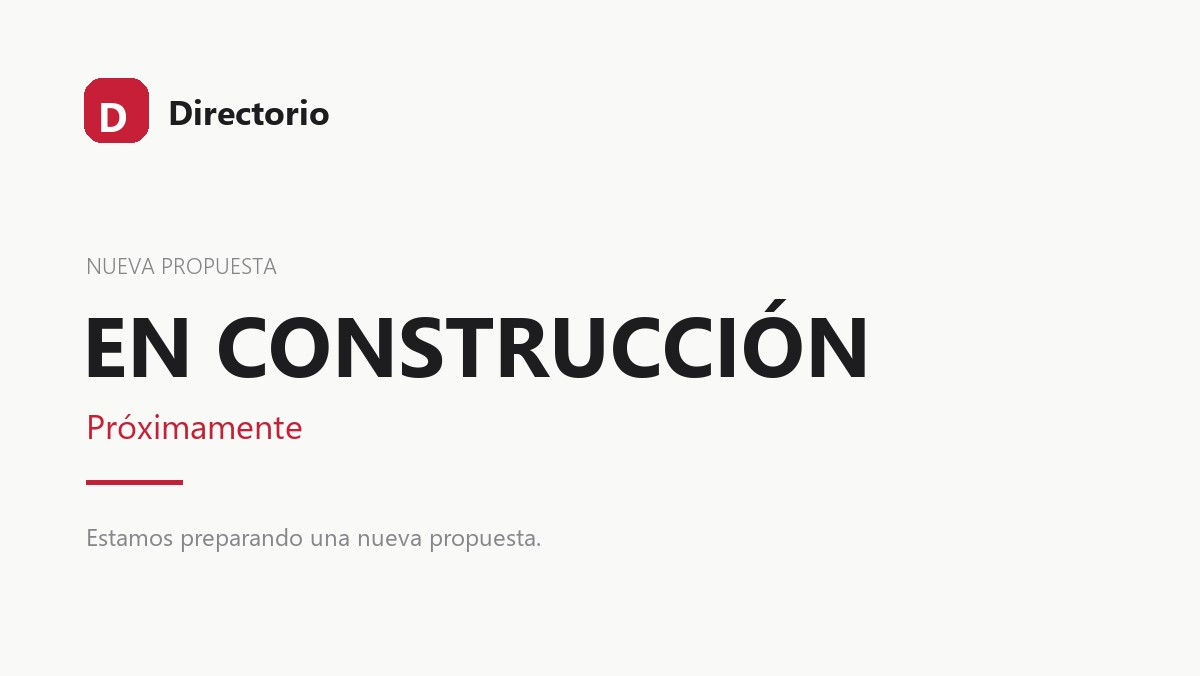
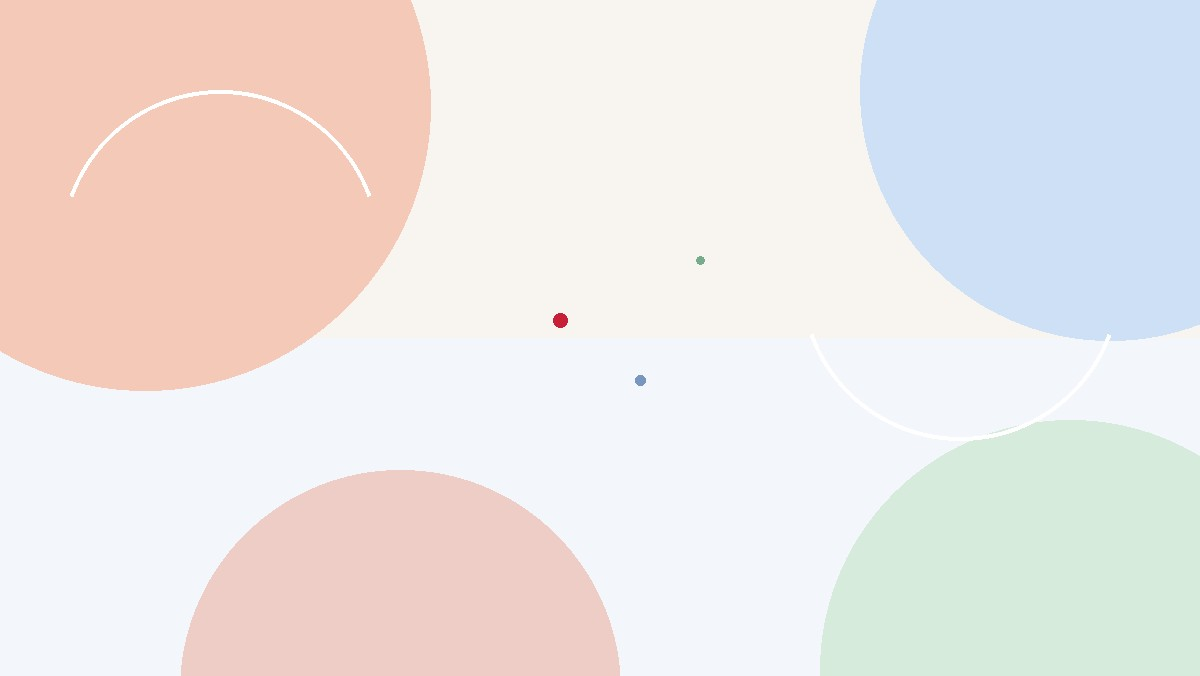
Portada abstracta y tarjetas sin descripcion

diff --git a/index.html b/index.html
@@ -90,10 +90,6 @@
 
         .card:hover { transform: translateY(-2px); box-shadow: 0 14px 30px rgba(0, 0, 0, .07); }
 
-        .card--soon { cursor: default; }
-
-        .card--soon:hover { transform: none; box-shadow: none; }
-
         .thumb { aspect-ratio: 16 / 9; background: linear-gradient(135deg, #eef2f8, #e3e8f0); overflow: hidden; }
 
         .thumb img { width: 100%; height: 100%; object-fit: cover; display: block; }
@@ -128,22 +124,20 @@
                         <span class="num">DEMO 1</span>
                         <div>
                             <h2>Minimalista</h2>
-                            <p>Listado limpio y directo, con búsqueda, ficha y promociones.</p>
                         </div>
                     </div>
                 </a>
-                <div class="card card--soon" aria-disabled="true">
+                <a class="card" href="demos/2/">
                     <div class="thumb">
-                        <img src="assets/img/demo-2-construccion.jpg" alt="Nueva propuesta, en construcción" width="600" height="338">
+                        <img src="assets/img/demo-2-construccion.jpg" alt="Directorio, Demo 2 en construcción" width="600" height="338">
                     </div>
                     <div class="body">
-                        <span class="num">PRÓXIMAMENTE</span>
+                        <span class="num">DEMO 2</span>
                         <div>
                             <h2>En construcción</h2>
-                            <p>Estamos preparando una nueva propuesta.</p>
                         </div>
                     </div>
-                </div>
+                </a>
             </div>
         </main>
     </div>
